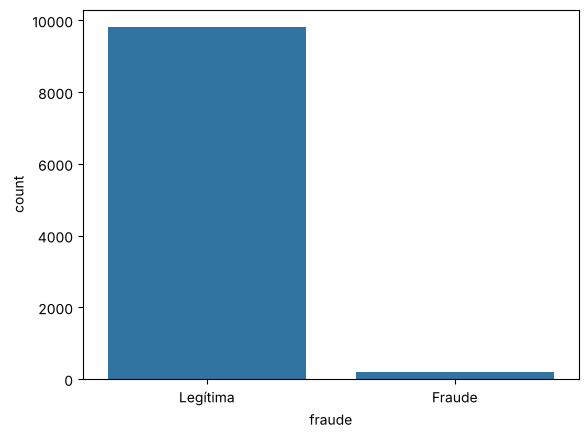
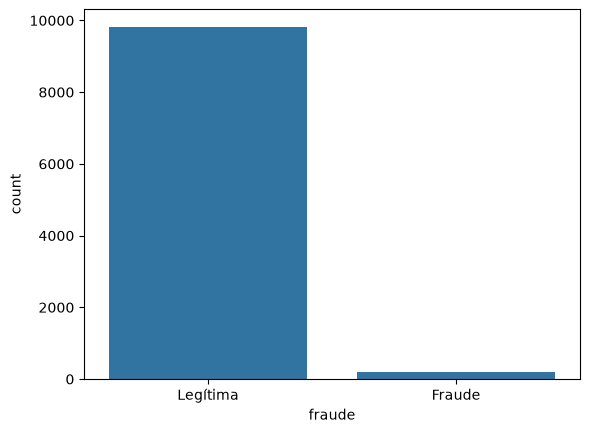
Atualização do código para remover importações desnecessárias e ajustar a configuração do matplotlib.

diff --git a/semana-10-balanceamento/aula-1-conceito-e-diagnostico/exercicio-01-diagnostico-de-classes/diagnostico_classes.py b/semana-10-balanceamento/aula-1-conceito-e-diagnostico/exercicio-01-diagnostico-de-classes/diagnostico_classes.py
@@ -1,7 +1,4 @@
 import pandas as pd
-import numpy as np
-import matplotlib
-matplotlib.use("Agg")
 import matplotlib.pyplot as plt
 import seaborn as sns
 
